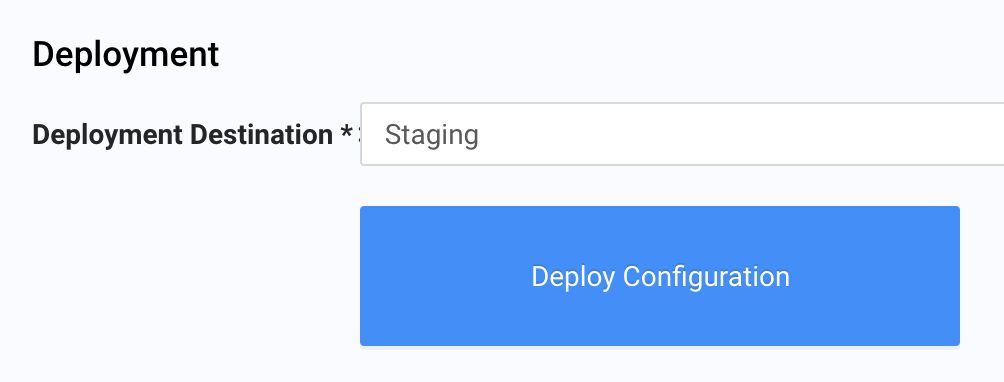
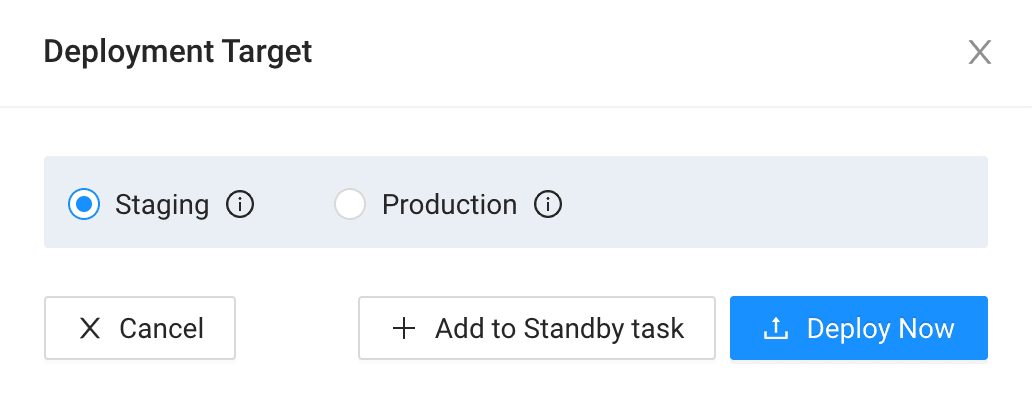
NGDOC-298 #comment updated image and text to reflect current user interface

diff --git a/zh/docs/recipes/aws-bucket.md b/zh/docs/recipes/aws-bucket.md
@@ -102,7 +102,7 @@ Because we saved the certificate earlier, we can now deploy it. To make sure the
 
 <p align=center><img src="/docs/resources/images/recipes/aws-bucket/create-property-origin.png" alt="create bucket" width="720"></p>
 
-5. **Origin name** will be used in the edge logic script (in our example, it's called `aws_origin`). In the **Servers** field, add our S3 bucket domain: `files-waytoo-digital.s3.amazonaws.com`.
+5. **Origin name** will be used in the Edge Logic script (in our example, it's called `aws_origin`). In the **Servers** field, add our S3 bucket domain: `files-waytoo-digital.s3.amazonaws.com`.
 
 6. Click **Validate** to make sure everything is satisfactory.
 
@@ -110,7 +110,7 @@ Because we saved the certificate earlier, we can now deploy it. To make sure the
 
 8. Click **Save**.
 
-We have created an origin. Next we will create an initial edge logic configuration. 
+We have created an origin. Next we will create an initial Edge Logic configuration. 
 
 9. Click the **Wizard** button.
 
@@ -118,7 +118,7 @@ We have created an origin. Next we will create an initial edge logic configurati
 
 10. Select the previously configured origin, set cache time to 3600 minutes, and ignore cache-control headers from origin to handle cache behavior on the edge. 
 
-11. Click **"OK"**. The system generates the following edge logic script:
+11. Click **"OK"**. The system generates the following Edge Logic script:
 
  ```nginx
         location / { #This is the default location.
@@ -201,11 +201,11 @@ Our configuration is working as expected, so let's deploy it to production.
 
 To deploy the configuration to production, use the Certificates and Edge Configurations pages. 
 
-1. Go to the Certificates page first. Then select the certificate, set **Deployment Destination** to **Production**, and click **Deploy Configuration**.
+1. Go to the Certificates page first. Then open the certificate, choose Deploy from the menu, set the deployment target to **Production**, and click **Deploy Now**.
 
 <p align=center><img src="/docs/resources/images/recipes/aws-bucket/deploy-to-production.png" alt="create bucket" width="500"></p>
 
-2. Go to the to Edge Configurations page, set **Deployment Destination** to **Production**, and click **Deploy Configuration**. 
+2. Go to the Edge Configurations page. Then open the property, choose Deploy from the menu, set the deployment target to **Production**, and click **Deploy Now**. 
 
 #### Testing(Production)
 

diff --git a/en/docs/recipes/aws-bucket.md b/en/docs/recipes/aws-bucket.md
@@ -201,11 +201,11 @@ Our configuration is working as expected, so let's deploy it to production.
 
 To deploy the configuration to production, use the Certificates and Edge Configurations pages. 
 
-1. Go to the Certificates page first. Then select the certificate, set **Deployment Destination** to **Production**, and click **Deploy Configuration**.
+1. Go to the Certificates page first. Then open the certificate, choose Deploy from the menu, set the deployment target to **Production**, and click **Deploy Now**.
 
 <p align=center><img src="/docs/resources/images/recipes/aws-bucket/deploy-to-production.png" alt="create bucket" width="500"></p>
 
-2. Go to the to Edge Configurations page, set **Deployment Destination** to **Production**, and click **Deploy Configuration**. 
+2. Go to the Edge Configurations page. Then open the property, choose Deploy from the menu, set the deployment target to **Production**, and click **Deploy Now**. 
 
 #### Testing(Production)
 
